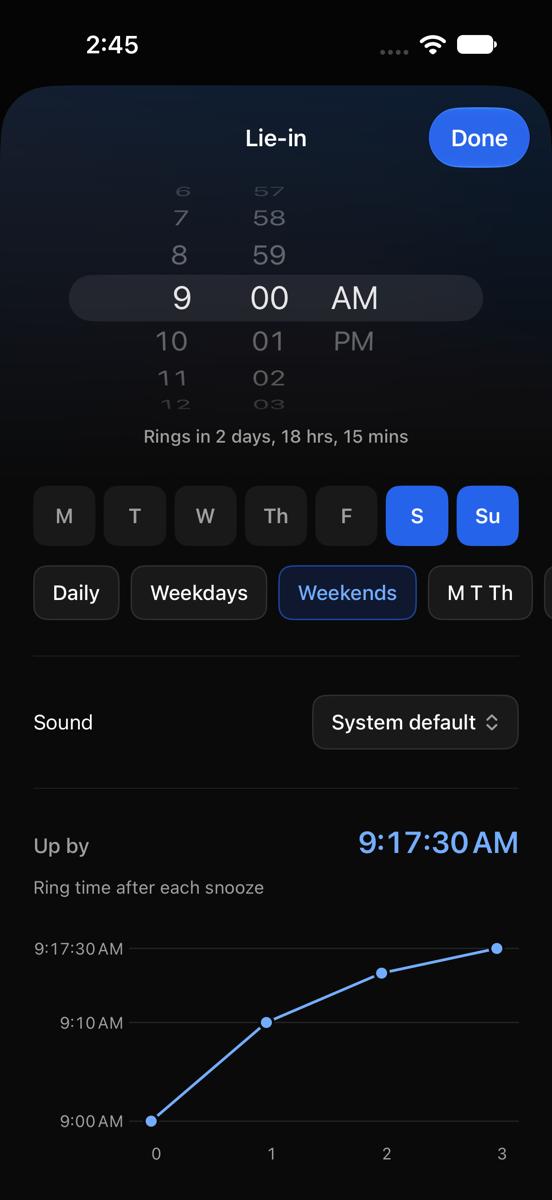
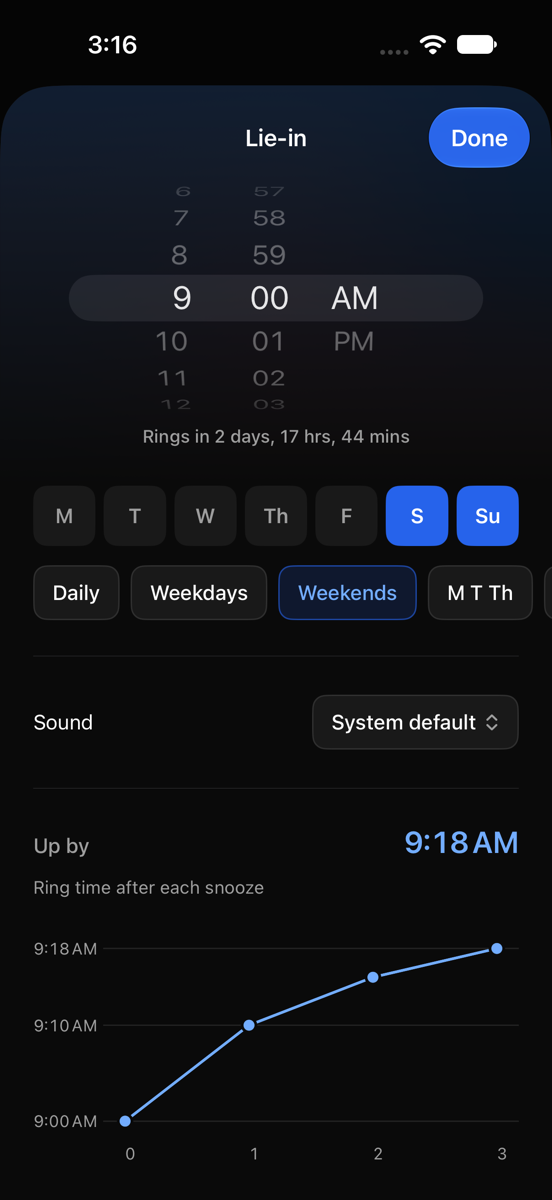
Round uneven snoozes up to whole minutes
Dividing kept exact seconds, so the graph, the projection and the snooze
button showed times like 6:52:30. Fixes #1.

diff --git a/Core/Tests/AlarmingCoreTests/WholeMinuteTests.swift b/Core/Tests/AlarmingCoreTests/WholeMinuteTests.swift
@@ -1,0 +1,40 @@
+import Foundation
+import Testing
+@testable import AlarmingCore
+
+/// https://github.com/cwlsn/alarming/issues/1
+@Suite struct WholeMinuteTests {
+    private static let styles: [SnoozePolicy.Style] =
+        [.constant] + (1...15).map { .subtract(minutes: $0) } + SnoozePolicy.Fraction.allCases.map { .multiply($0) }
+
+    @Test(arguments: styles)
+    func everySnoozeAndRingIsAWholeMinute(style: SnoozePolicy.Style) throws {
+        let start = Date(timeIntervalSince1970: 1_795_600_800)
+        for first in 1...30 {
+            for limit in [nil, 1, 2, 3, 5, 10] as [Int?] {
+                let policy = SnoozePolicy(firstMinutes: first, style: style, limit: limit)
+                for seconds in policy.intervals ?? [] { #expect(seconds % 60 == 0 && seconds >= 60) }
+                for ring in policy.ringTimes(from: start) ?? [] { #expect(Int(ring.timeIntervalSince1970) % 60 == 0) }
+                #expect(policy.summary.firstMatch(of: /\d+s\b/) == nil)
+            }
+        }
+    }
+
+    @Test func unevenDivisionTakesTheNextMinute() {
+        func minutes(_ first: Int, _ fraction: SnoozePolicy.Fraction) -> [Int]? {
+            SnoozePolicy(firstMinutes: first, style: .multiply(fraction)).intervals?.map { $0 / 60 }
+        }
+        #expect(minutes(15, .half) == [15, 8, 4, 2])
+        #expect(minutes(10, .half) == [10, 5, 3, 2])
+        #expect(minutes(10, .third) == [10, 4, 2])
+    }
+
+    @Test(arguments: ["en_US", "en_GB", "de_DE", "fr_CA", "ja_JP"])
+    func timesAreShownWithoutSeconds(locale: String) throws {
+        let zone = TimeZone(identifier: "America/New_York")!
+        for offset in [0, 1, 30, 59, 45_296] {
+            let text = ClockText.string(Date(timeIntervalSince1970: 1_795_600_800 + Double(offset)), locale: Locale(identifier: locale), timeZone: zone)
+            #expect(text.matches(of: /\d+/).count == 2, "\(text)")
+        }
+    }
+}

diff --git a/App/WakeChart.swift b/App/WakeChart.swift
@@ -40,14 +40,14 @@ struct WakeChart: View {
                 // Axis labels take the plot's room at the largest sizes.
                 .dynamicTypeSize(...DynamicTypeSize.accessibility1)
                 .accessibilityElement(children: .ignore)
-                .accessibilityLabel(isOpen ? "Snoozes without a limit" : "Rings at " + points.map { TimeText.string($0.date) }.joined(separator: ", "))
+                .accessibilityLabel(isOpen ? "Snoozes without a limit" : "Rings at " + points.map { ClockText.string($0.date) }.joined(separator: ", "))
                 .accessibilityIdentifier("wake-chart")
         }
         .sensoryFeedback(.selection, trigger: focus?.id)
     }
 
     private func readout(_ point: Point) -> String {
-        let time = TimeText.string(point.date)
+        let time = ClockText.string(point.date)
         return switch point.id {
         case 0: "\(time) · alarm"
         case 1: "\(time) · after 1 snooze"
@@ -88,7 +88,7 @@ struct WakeChart: View {
                 AxisGridLine(stroke: StrokeStyle(lineWidth: 1)).foregroundStyle(Color.hairline)
                 AxisValueLabel(collisionResolution: .disabled) {
                     if let seconds = value.as(Double.self) {
-                        Text(TimeText.string(start.addingTimeInterval(seconds))).font(.caption).monospacedDigit().foregroundStyle(Color.quiet)
+                        Text(ClockText.string(start.addingTimeInterval(seconds))).font(.caption).monospacedDigit().foregroundStyle(Color.quiet)
                     }
                 }
             }

diff --git a/Core/Tests/AlarmingCoreTests/CoreTests.swift b/Core/Tests/AlarmingCoreTests/CoreTests.swift
@@ -28,8 +28,8 @@ private func date(_ year: Int, _ month: Int, _ day: Int, _ hour: Int, _ minute: 
 
     @Test func halfExample() {
         let policy = SnoozePolicy(firstMinutes: 10, style: .multiply(.half), limit: 3)
-        #expect(policy.intervals == [600, 300, 150])
-        #expect(policy.projectedWake(from: date(2026, 12, 1, 7, 0)) == date(2026, 12, 1, 7, 17, 30))
+        #expect(policy.intervals == [600, 300, 180])
+        #expect(policy.projectedWake(from: date(2026, 12, 1, 7, 0)) == date(2026, 12, 1, 7, 18))
     }
 
     @Test func constantLimitAndNoLimit() {
@@ -64,7 +64,7 @@ private func date(_ year: Int, _ month: Int, _ day: Int, _ hour: Int, _ minute: 
         let policy = SnoozePolicy(firstMinutes: first, style: .multiply(fraction))
         let intervals = try #require(policy.intervals)
         #expect(intervals.first == first * 60)
-        #expect(zip(intervals, intervals.dropFirst()).allSatisfy { $0 > $1 })
+        #expect(zip(intervals, intervals.dropFirst()).allSatisfy { $0 >= $1 })
         let ratio = Double(fraction.numerator) / Double(fraction.denominator)
         #expect(intervals.allSatisfy { $0 >= 60 })
         // The next one must genuinely be too short, proving the safety bound did not cut it off.

diff --git a/App/AlarmListView.swift b/App/AlarmListView.swift
@@ -204,7 +204,7 @@ private struct QuickEntryBar: View {
             let alarm = AlarmDefinition(hour: entry.hour, minute: entry.minute, days: entry.days, label: entry.label)
             let next = alarm.nextOccurrence(after: .now) ?? .now
             VStack(alignment: .leading, spacing: 2) {
-                Text("\(TimeText.string(next)) · \(alarm.displayLabel) · \(RepeatDays.summary(alarm.days))")
+                Text("\(ClockText.string(next)) · \(alarm.displayLabel) · \(RepeatDays.summary(alarm.days))")
                     .font(.subheadline.weight(.semibold))
                 Text(TimeText.ringsIn(next, now: .now)).font(.footnote).foregroundStyle(Color.quiet)
             }
@@ -347,7 +347,7 @@ private struct AlarmRow: View {
 
     private var snooze: some View {
         VStack(alignment: typeSize.isAccessibilitySize ? .leading : .trailing, spacing: 8) {
-            Text(wake.map { "Up by \(TimeText.string($0))" } ?? "No limit")
+            Text(wake.map { "Up by \(ClockText.string($0))" } ?? "No limit")
                 .font(.caption.weight(.medium))
                 .monospacedDigit()
                 .foregroundStyle(isOn && wake != nil ? Color.accentText : Color.quiet)

diff --git a/UITests/AlarmingUITests.swift b/UITests/AlarmingUITests.swift
@@ -56,6 +56,12 @@ final class AlarmingUITests: XCTestCase {
         waitForExpectations(timeout: 5)
     }
 
+    private func expectNoSeconds() {
+        for text in [app.staticTexts["projected-wake"].label, app.descendants(matching: .any)["wake-chart"].label] {
+            XCTAssertNil(text.range(of: #"\d+:\d+:\d+"#, options: .regularExpression), text)
+        }
+    }
+
     func testCreateEditToggleDelete() {
         launch()
         XCTAssertTrue(app.staticTexts["No alarms yet"].waitForExistence(timeout: 5))
@@ -126,11 +132,13 @@ final class AlarmingUITests: XCTestCase {
         capture("5-edit")
         chooseStyle("Divide")
         XCTAssertTrue(app.segmentedControls.buttons["Linear"].exists && app.segmentedControls.buttons["÷ 2"].isSelected)
-        expectWake("6:58:07")
+        expectWake("6:59")
+        expectNoSeconds()
         let two = app.buttons["Snoozes, 2"]
         reveal(two)
         two.tap()
-        expectWake("6:52:30")
+        expectWake("6:53")
+        expectNoSeconds()
         XCTAssertTrue(two.isSelected)
         XCTAssertFalse(app.buttons["Snoozes, 5"].isEnabled)
         capture("6-edit-options")

diff --git a/Core/Sources/AlarmingCore/SnoozePolicy.swift b/Core/Sources/AlarmingCore/SnoozePolicy.swift
@@ -67,7 +67,7 @@ public struct SnoozePolicy: Codable, Hashable, Sendable {
         )
     }
 
-    /// Seconds for the snooze taken after `completed` earlier snoozes, or `nil` when only Stop is allowed.
+    /// Seconds, always whole minutes, for the snooze taken after `completed` earlier snoozes, or `nil` when only Stop is allowed.
     public func interval(after completed: Int) -> Int? {
         guard isEnabled, completed >= 0 else { return nil }
         if let limit, completed >= limit { return nil }
@@ -121,7 +121,9 @@ public struct SnoozePolicy: Codable, Hashable, Sendable {
             }
             seconds = numerator / denominator
         }
-        return seconds >= Self.minimumSeconds ? seconds : nil
+        // Too short is judged before rounding up to a whole minute, or dividing would never end.
+        guard seconds >= Self.minimumSeconds else { return nil }
+        return (seconds + 59) / 60 * 60
     }
 
     private static func clampedFirst(_ minutes: Int) -> Int { min(max(minutes, 1), 30) }

diff --git a/App/SnoozeSettingsView.swift b/App/SnoozeSettingsView.swift
@@ -49,7 +49,7 @@ struct SnoozeSettingsView: View {
                 Text(policy.isEnabled ? "Up by" : "Snooze off").foregroundStyle(Color.quiet)
                 if !typeSize.isAccessibilitySize { Spacer() }
                 if let wake = rings?.last {
-                    Text(TimeText.string(wake))
+                    Text(ClockText.string(wake))
                         .font(.title2.weight(.semibold))
                         .monospacedDigit()
                         .foregroundStyle(policy.isEnabled ? Color.accentText : Color.quiet)

diff --git a/Core/Tests/AlarmingCoreTests/SchedulingTests.swift b/Core/Tests/AlarmingCoreTests/SchedulingTests.swift
@@ -226,5 +226,5 @@ private func tempURL() -> URL { URL.temporaryDirectory.appending(path: "alarming
     #expect(SnoozePolicy(isEnabled: false).summary == "No snooze")
     #expect(SnoozePolicy().summary == "Snooze 9m, no limit")
     #expect(SnoozePolicy(limit: 2).summary == "Snooze 9m, up to 2x")
-    #expect(SnoozePolicy(firstMinutes: 10, style: .multiply(.half), limit: 3).summary == "Snooze 10m, 5m, 2m 30s")
+    #expect(SnoozePolicy(firstMinutes: 10, style: .multiply(.half), limit: 3).summary == "Snooze 10m, 5m, 3m")
 }

diff --git a/Shared/TimeText.swift b/Shared/TimeText.swift
@@ -27,10 +27,4 @@ enum TimeText {
         let duration = Duration.seconds(minutes * 60)
         return "Rings in " + duration.formatted(.units(allowed: [.days, .hours, .minutes], width: .abbreviated))
     }
-
-    static func string(_ date: Date) -> String {
-        Calendar.current.component(.second, from: date) == 0
-            ? date.formatted(date: .omitted, time: .shortened)
-            : date.formatted(date: .omitted, time: .standard)
-    }
 }

diff --git a/Core/Sources/AlarmingCore/ClockText.swift b/Core/Sources/AlarmingCore/ClockText.swift
@@ -1,0 +1,10 @@
+import Foundation
+
+public enum ClockText {
+    /// Hours and minutes, the way the locale writes them.
+    public static func string(_ date: Date, locale: Locale = .autoupdatingCurrent, timeZone: TimeZone = .autoupdatingCurrent) -> String {
+        var style = Date.FormatStyle(date: .omitted, time: .shortened, locale: locale)
+        style.timeZone = timeZone
+        return date.formatted(style)
+    }
+}

diff --git a/Widget/NextAlarmWidget.swift b/Widget/NextAlarmWidget.swift
@@ -70,7 +70,7 @@ struct NextAlarmView: View {
     private var inlineText: String {
         guard let next = entry.next else { return "No alarms on" }
         let days = daysUntil(next.date)
-        let time = TimeText.string(next.date)
+        let time = ClockText.string(next.date)
         return days == 0 ? time : "\(next.date.formatted(.dateTime.weekday(.abbreviated))) \(time)"
     }
 

diff --git a/Core/Sources/AlarmingCore/Formatting.swift b/Core/Sources/AlarmingCore/Formatting.swift
@@ -1,10 +1,8 @@
 import Foundation
 
 public enum DurationText {
-    /// "9m", "2m 30s"
-    public static func short(_ seconds: Int) -> String {
-        seconds % 60 == 0 ? "\(seconds / 60)m" : "\(seconds / 60)m \(seconds % 60)s"
-    }
+    /// "9m". Snoozes are whole minutes.
+    public static func short(_ seconds: Int) -> String { "\(seconds / 60)m" }
 }
 
 extension SnoozePolicy {
